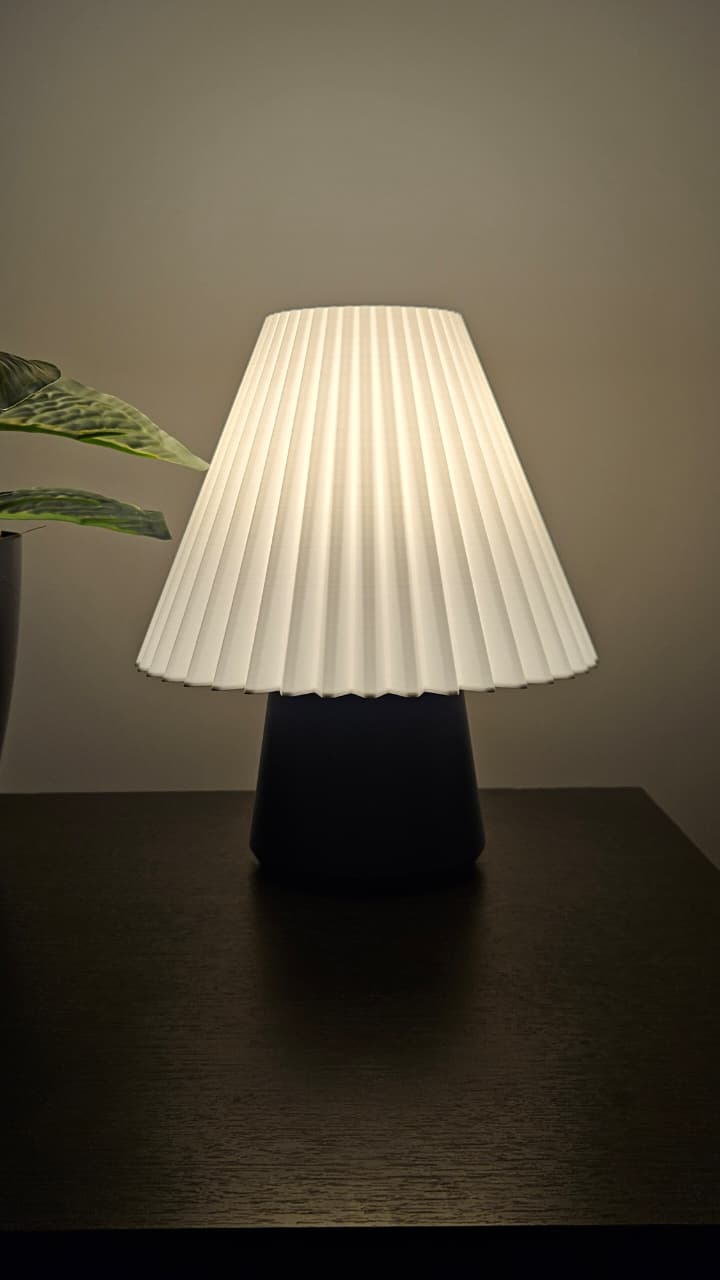
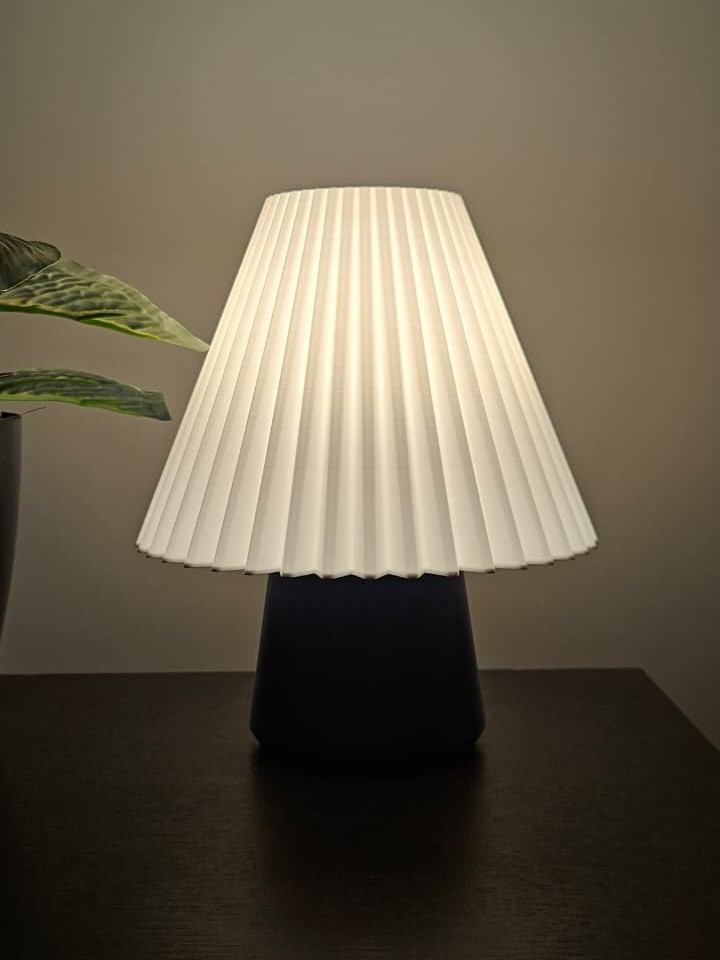
add imgs

Changed region(s): [[0.0, 0.2188, 1.0, 0.7812], [0.1833, 0.75, 0.9167, 1.0], [0.3056, 0.1875, 0.7333, 0.375]]

diff --git a/index.html b/index.html
@@ -475,7 +475,7 @@ svg: (sc, bsc, lit, W, H) => {
     name: 'LA-04',
     desc: 'Skirt',
     price: 34000,
-    imgs: [ 'img/skirt01.jpg', 'img/skirt02.jpg'],
+    imgs: [ 'img/skirt01.jpg', 'img/skirt02.jpg', 'img/skirt03.jpg'],
 
     // índices habilitados de cada opción (0-based)
     // OPT_PANTALLA: 0=Blanco, 1=Traslúcido
@@ -518,6 +518,8 @@ svg: (sc, bsc, lit, W, H) => {
     imgs: [ 'img/pon01.jpg',
             'img/pon03.jpg',
             'img/pon06.jpg',
+            'img/pon07.jpg',
+            'img/pon08.jpg',
           ],
 
     // índices habilitados de cada opción (0-based)